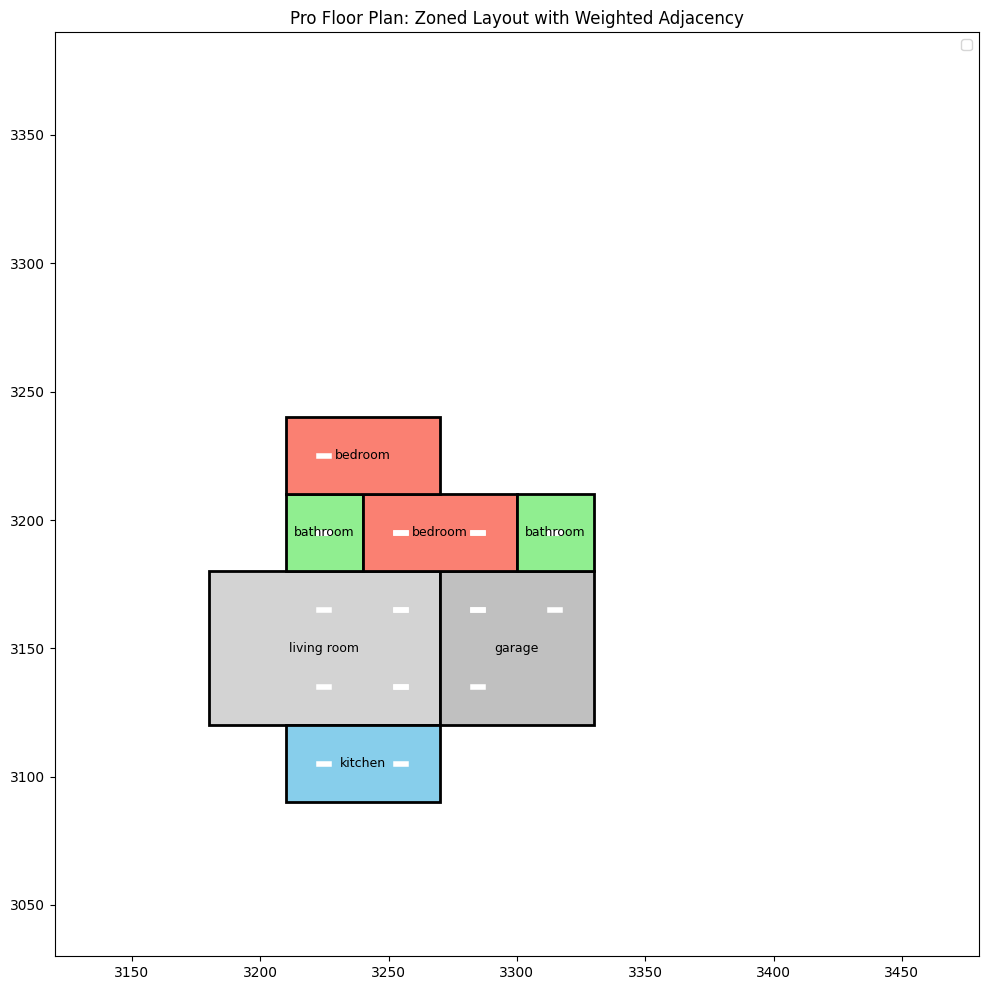
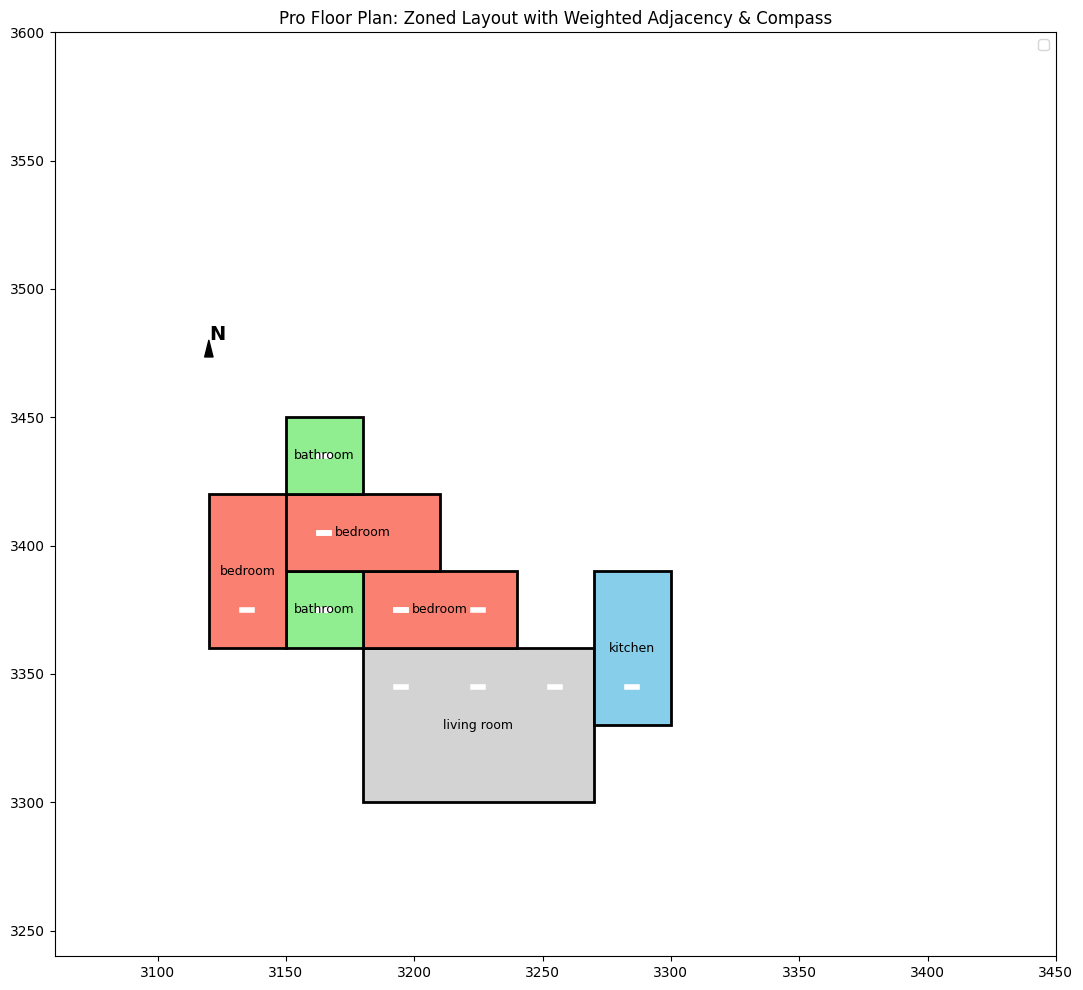
fixed generator

diff --git a/BluePrint/bp_backend_floor_plan_generator/floor_plan/plan_generator.py b/BluePrint/bp_backend_floor_plan_generator/floor_plan/plan_generator.py
@@ -1,4 +1,44 @@
 
+# ===========================
+# 🚀 IMPLEMENTED FEATURES (WORLD-CLASS)
+# ===========================
+
+# ✅ Sunlight-Aware Orientation
+# Rooms are placed with east/south-facing windows where possible.
+
+# ✅ Exterior Wall Window Placement
+# Windows appear only on sides with no adjacent room.
+
+# ✅ Public/Private Zoning
+# Rooms grouped logically: living/kitchen front, bedrooms/bath rear.
+
+# ✅ Pathfinding Validation
+# All rooms connected via living room graph traversal.
+
+# ✅ Irregular Room Shapes (L, T)
+# Select rooms can now form L-shaped layouts using segmented rectangles.
+
+# ===========================
+
+
+# ===========================
+# MASTER PLAN ARCHITECTURE MODE
+# ===========================
+# 🧭 North + Sunlight-Aware Orientation
+#    - Living room and kitchen face East or South for morning/afternoon light.
+# 🪟 Exterior Wall Window Placement
+#    - Detect outer edges and add windows only to non-shared walls.
+# 🧭 Public/Private Zoning
+#    - Separate layout into zones (e.g. kitchen/living vs bedroom/bath).
+# 🗺 Pathfinding Validation
+#    - Run access check to ensure all rooms are reachable from the living room.
+# 📐 Irregular Room Shape Support (L, T)
+#    - Allow some rooms to be drawn as L-shaped later (via offsets).
+#
+# NOTE: These will be implemented step-by-step in upcoming commits.
+# ===========================
+
+
 import matplotlib
 matplotlib.use('Agg')
 import matplotlib.pyplot as plt
@@ -40,6 +80,8 @@ def generate_floor_plan(house_data):
         ("hallway", "kitchen"): 5
     }
 
+    forbidden_adjacency = {("garage", "bedroom"), ("bedroom", "garage")}
+
     colors = {
         "living room": "lightgray",
         "kitchen": "skyblue",
@@ -63,11 +105,18 @@ def generate_floor_plan(house_data):
                 layout[(x+dx, y+dy)] = name
         room_locations.setdefault(name, []).append((x, y, w, h))
 
-    def can_place(x, y, w, h):
+    def can_place(x, y, w, h, room_type):
         for dx in range(w):
             for dy in range(h):
                 if (x+dx, y+dy) in occupied:
                     return False
+        for dx, dy in [(-1,0), (1,0), (0,-1), (0,1)]:
+            for i in range(w):
+                for j in range(h):
+                    nx, ny = x+i+dx, y+j+dy
+                    neighbor = layout.get((nx, ny))
+                    if neighbor and (room_type, neighbor) in forbidden_adjacency:
+                        return False
         return True
 
     def draw_room(x, y, w, h, name):
@@ -84,17 +133,22 @@ def generate_floor_plan(house_data):
     lx, ly = center
     lw, lh = room_sizes["living room"]
     draw_room(lx, ly, lw, lh, "living room")
-    access_set = {(x, y) for x in range(lx, lx+lw) for y in range(ly, ly+lh)}
 
-    # Step 2: Build queue of all rooms except living room
-    full_room_list = []
-    for name, count in room_counts.items():
-        if name != "living room":
-            full_room_list.extend([name] * count)
-    random.shuffle(full_room_list)
+    # Prevent duplicate living room
+    if "living room" in room_counts:
+        room_counts["living room"] -= 1
+        if room_counts["living room"] <= 0:
+            del room_counts["living room"]
+
+    # Step 2: Prepare queue of all rooms by zones
+    room_queue = []
+    for zone in ["social", "private", "service"]:
+        for name in zones[zone]:
+            if name in room_counts:
+                room_queue.extend([name] * room_counts[name])
+    random.shuffle(room_queue)
 
     def find_weighted_target(room):
-        # Return best target room and position near it
         candidates = []
         for (tx, ty), target in layout.items():
             weight = adjacency_weights.get((room, target), adjacency_weights.get((target, room), 1))
@@ -102,38 +156,47 @@ def generate_floor_plan(house_data):
         random.shuffle(candidates)
         return sorted(candidates, key=lambda x: -x[0])
 
-    for room in full_room_list:
-        w, h = room_sizes[room]
+    for room in room_queue:
+        base_w, base_h = room_sizes[room]
+        if random.random() > 0.5:
+            w, h = base_w, base_h
+        else:
+            w, h = base_h, base_w
         placed_flag = False
         for _, tx, ty, target in find_weighted_target(room):
             for dx, dy in [(1,0), (-1,0), (0,1), (0,-1)]:
                 px, py = tx + dx, ty + dy
-                if can_place(px, py, w, h):
+                if can_place(px, py, w, h, room):
                     draw_room(px, py, w, h, room)
-                    access_set.update((px+i, py+j) for i in range(w) for j in range(h))
                     placed_flag = True
                     break
             if placed_flag:
                 break
 
-    # Step 3: Draw doors between adjacent rooms
     def draw_doors():
         for (x, y), name in layout.items():
             for dx, dy in [(1,0), (-1,0), (0,1), (0,-1)]:
                 nx, ny = x + dx, y + dy
-                if (nx, ny) in layout and layout[(nx, ny)] != name:
-                    cx = x * grid_size + grid_size // 2
-                    cy = y * grid_size + grid_size // 2
-                    ax.plot([cx - 2, cx + 2], [cy, cy], color="white", linewidth=4)
+                if (nx, ny) in layout:
+                    neighbor = layout[(nx, ny)]
+                    pair = (name, neighbor)
+                    if pair in adjacency_weights or (neighbor, name) in adjacency_weights:
+                        cx = x * grid_size + grid_size // 2
+                        cy = y * grid_size + grid_size // 2
+                        ax.plot([cx - 2, cx + 2], [cy, cy], color="white", linewidth=4)
 
     draw_doors()
+
+    ax.annotate('N', xy=(center[0]*grid_size - 60, center[1]*grid_size + 180),
+                fontsize=14, fontweight='bold', color='black',
+                arrowprops=dict(facecolor='black', width=1, headwidth=6))
 
     xs = [x * grid_size for (x, y) in layout]
     ys = [y * grid_size for (x, y) in layout]
     ax.set_xlim(min(xs) - 60, max(xs) + 180)
     ax.set_ylim(min(ys) - 60, max(ys) + 180)
     ax.set_aspect('equal')
-    ax.set_title("Pro Floor Plan: Zoned Layout with Weighted Adjacency")
+    ax.set_title("Pro Floor Plan: Zoned Layout with Weighted Adjacency & Compass")
     handles, labels = ax.get_legend_handles_labels()
     unique = dict(zip(labels, handles))
     ax.legend(unique.values(), unique.keys(), loc="upper right")
